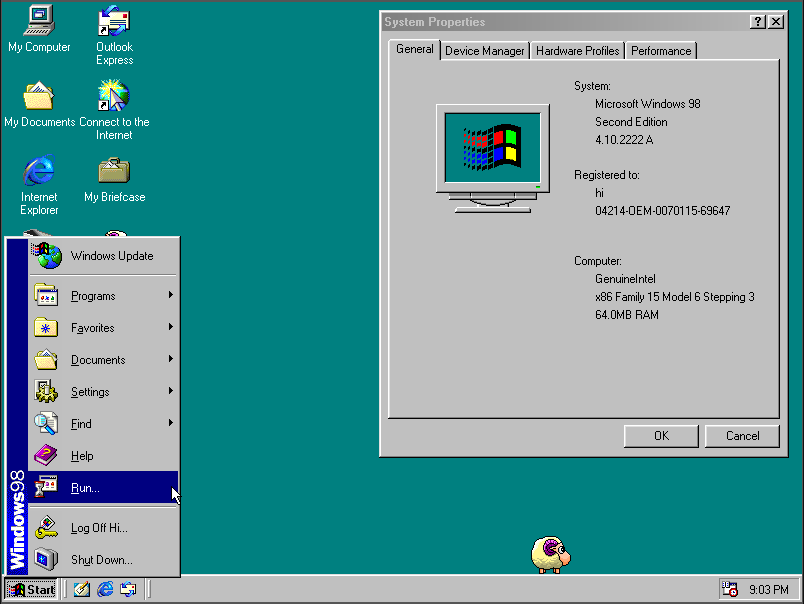
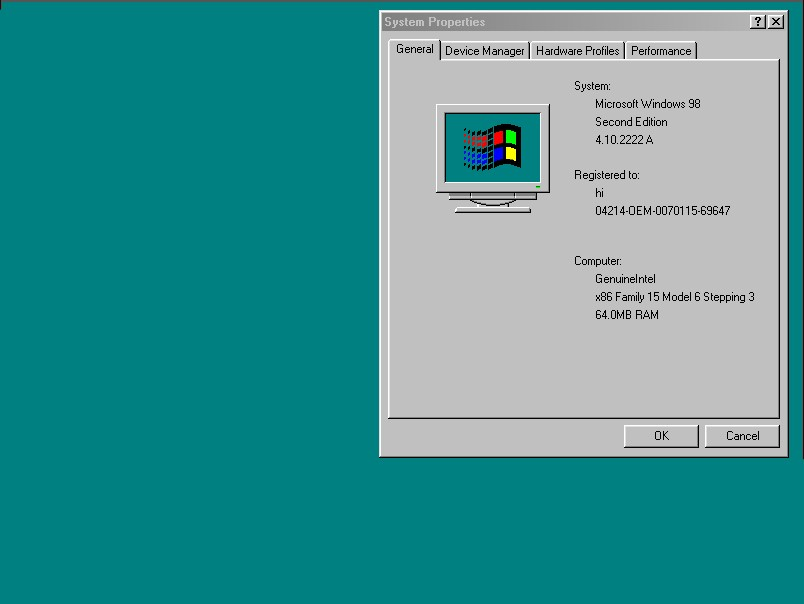
Updating views

diff --git a/style.css b/style.css
@@ -1,5 +1,6 @@
+
+
 html {
-    font-size: calc(0.5em + 0.5vw);
     user-select: none;
 }
 body {
@@ -46,10 +47,12 @@ body {
     text-align: center;
 }
 
-.windows10  { 
+.windows10  {
+    font-family: 'Segoe UI Regular';
     transform: rotateY(0deg) translateZ(calc(100vw/2));
 }
 .windows7 { 
+    font-family: 'Segoe UI Regular';
     transform: rotateY(90deg) translateZ(calc(100vw/2));
 }
 .windowsxp { 
@@ -57,37 +60,7 @@ body {
 }
 .windows98 { 
     transform: rotateY(-90deg) translateZ(calc(100vw/2));
-}
-p {
-    background-color: #213541;
-    bottom: 0;
-    color: white;
-    display: flex;
-    justify-content: space-evenly;
-    margin: 0;
-    padding: 8px;
-    position: absolute;
-    width: 100vw;
-}
-p > * {
-    cursor: pointer;
-}
-p > *:active {
-    transform: translateY(1px);
-}
-p.p98 span:last-of-type {
-    border: 2px inset #fff;
-    padding: 0 10px;
-}
-.p98 {
-    background-color: silver;
-    border-top: 2px outset #fff;
-}
-.pxp {
-    background-color: rgb(0, 39, 212);
-}
-.p7 {
-    background-color: rgba(132, 134, 255, 0.37);
+    background-color: #354;
 }
 .imagen-fondo {
     height: 100vh;
@@ -98,23 +71,25 @@ p.p98 span:last-of-type {
     z-index: -1;
 }
 nav {
+    display: flex;
     position: absolute;
     top: 0;
     left: 0;
-    display: flex;
     justify-content: center;
     flex-direction: column;
     max-height: calc(100vh - 40px);
     flex-wrap: wrap;
 }
 .icono, nav button {
+    font-size: 0.8em;
     display: block;
-    margin: 10px;
-    width: 75px;
-    height: 75px;
+    margin: 7px 20px;
+    width: 70px;
+    height: 70px;
     border-radius: 10px;
     color: white;
-    text-shadow: 1px 1px 1px black;
+    text-shadow: 1px 1px 3px black;
+    padding: 5px;
 }
 .icono img {
     height: 32px;
@@ -127,11 +102,81 @@ nav button {
     background: transparent;
     border: 3px solid rgba(255, 255, 255, 0.3);
 }
+p {
+    background-color: #213541;
+    bottom: 0;
+    color: white;
+    display: flex;
+    justify-content: space-between;
+    align-items: center;
+    margin: 0;
+    position: absolute;
+    width: 100vw;
+}
+p > * {
+    cursor: pointer;
+}
+.p7 {
+    background-color: rgba(132, 134, 255, 0.37);
+    height: 41px;
+}
+.p98 {
+    background-color: silver;
+    border-top: 2px outset #fff;
+    color: #000;
+}
+.p98 span:last-of-type {
+    border: 2px inset #fff;
+    padding: 0 10px;
+}
+.pxp {
+    background: linear-gradient(to bottom, #245edb 0%, #3f8cf3 9%, #245edb 18%, #245edb 92%, #333 100%) center/cover no-repeat;
+}
+
+.buttonStart10 {
+    cursor: default;
+    outline: none;
+    height: 16px;
+    padding: 8px 15px;
+}
+.buttonStart7 {
+    cursor: default;
+    outline: none;
+    height: 42px;
+    position: relative;
+    transform: translateX(20%) translateY(-20%);
+}
+.buttonStartxp {
+    cursor: default;
+    outline: none;
+    height: 28px;
+    margin: 0;
+    padding: 4px 22px;
+    background: linear-gradient(to bottom,
+    rgb(0, 150, 40) 0%,
+    rgb(0, 230, 80) 9%, 
+    rgb(0, 150, 30) 18%,
+    rgb(0, 168, 40) 92%,
+    #333333 100%)
+    center/cover no-repeat;
+    border-top-right-radius: 10px;
+    border-bottom-right-radius: 10px;
+}
+.buttonStartxp::after {
+    content: 'Start';
+    position: absolute;
+    width: 100%;
+    height: 100%;
+    left: 0;
+    top: 0;
+}
 .buttonStart98 {
     cursor: default;
     border: 2px outset #fff;
     box-shadow: 1px 1px #000;
+    height: 20px;
     outline: none;
+    margin: 3px;
 }
 .taskStart {
     position: absolute;

diff --git a/nav-template.js b/nav-template.js
@@ -14,16 +14,26 @@ Vue.component('nav-template', {
     props: ['opcion'],
     data: () => {
         return {
-            cont: 20,
+            cont: 1,
             iconos: [
-                { icon: '10recy.png', nombre: 'Papelera Reciclaje', tipo: '10' },
+                { icon: '10recy.png', nombre: 'Papelera de Reciclaje', tipo: '10' },
                 { icon: '10eq.png', nombre: 'Este Equipo', tipo: '10' },
                 { icon: '10ma.png', nombre: 'Mis Archivos', tipo: '10' },
-                { icon: '10ie.png', nombre: 'Internet Explorer', tipo: '10' },
+                { icon: '10ie.png', nombre: 'Edge', tipo: '10' },
+                { icon: 'ot.svg', nombre: 'Outlook', tipo: '10' },
                 { icon: '10cursor.png', nombre: 'Mouse', tipo: '10' },                
-                { icon: '7eq.png', nombre: 'Icono3', tipo: '7' },                
-                { icon: '7ma.png', nombre: 'Icono2', tipo: '7' },                
-                { icon: '7recy.png', nombre: 'Icono3', tipo: '7' },                
+                { icon: '7recy.png', nombre: 'Papelera de Reciclaje', tipo: '7' },                
+                { icon: '7eq.png', nombre: 'Este equipo', tipo: '7' },                
+                { icon: '7ma.png', nombre: 'Mis Archivos', tipo: '7' },          
+                { icon: 'chrome.png', nombre: 'Chrome', tipo: '7' },  
+                { icon: 'xprecy.png', nombre: 'Papelera de Reciclaje', tipo: 'xp' },                
+                { icon: 'xpeq.png', nombre: 'Este equipo', tipo: 'xp' },                
+                { icon: 'xpma.png', nombre: 'Mis Archivos', tipo: 'xp' },          
+                { icon: 'firefox.png', nombre: 'Mozilla Firefox', tipo: 'xp' },          
+                { icon: 'lw.png', nombre: 'LimeWire', tipo: 'xp' },          
+                { icon: 'msn.png', nombre: 'Msn', tipo: 'xp' },          
+                { icon: 'pg.png', nombre: 'PostgreSQL', tipo: 'xp' },          
+                { icon: 'wa.png', nombre: 'Winamp', tipo: 'xp' },          
                 { icon: '98recy.png', nombre: 'Papelera Reciclaje', tipo: '98' },
                 { icon: '98eq.png', nombre: 'Este Equipo', tipo: '98' },
                 { icon: '98ma.png', nombre: 'Mis Archivos', tipo: '98' },
@@ -34,8 +44,8 @@ Vue.component('nav-template', {
     methods: {
         agregarIcon(value) {
             objeto = {
-                icon: '10image.png',
-                nombre: 'Icon'+this.cont,
+                icon: value+'new.png',
+                nombre: 'New'+this.cont,
                 tipo: value
             }
             this.cont++

diff --git a/windows-template.js b/windows-template.js
@@ -9,8 +9,8 @@ Vue.component('windows-template', {
             <span>Windows {{ opcion }}</span>
         </div>
         
-        <p :class="['p', 'p'+opcion]">
-            <button :class="['buttonStart'+opcion]" @click="mostrar = !mostrar">Start</button>
+        <p :class="['p'+opcion]">
+            <img :src="[opcion+'start.png']" :class="['buttonStart'+opcion]" @click="mostrar = !mostrar">
             <span v-for="opcion in opciones" @click="cambiarWindow(opcion)">Windows {{ opcion }}</span>
             <span>{{ HHMM }}</span>
         </p>

diff --git a/index.html b/index.html
@@ -3,13 +3,9 @@
 <head>
     <meta charset="UTF-8">
     <meta name="viewport" content="width=device-width, initial-scale=1.0">
-    <title>CursoVueJs</title>
+    <title>Recordando Windows</title>
     <link rel="stylesheet" href="style.css">
     <script src="https://cdn.jsdelivr.net/npm/vue/dist/vue.js"></script>
-    <style>
-
-
-    </style>
 </head>
 <body>
 
